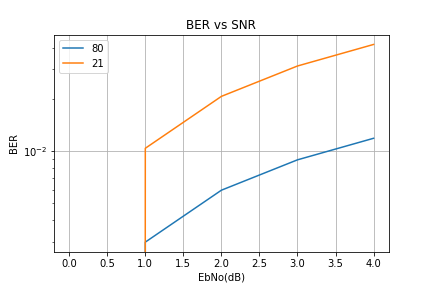
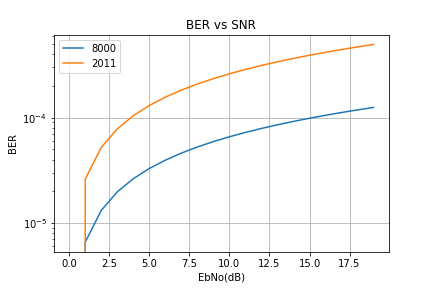
Made it more usable

Changed region(s): [[0.0, 0.125, 0.9028, 0.9375], [0.0602, 0.375, 0.0903, 0.4375]]

diff --git a/Python/JointCode.py b/Python/JointCode.py
@@ -14,10 +14,13 @@ from hamming import *
 
 # %%
 # huffman code
-
-string = 'AAAABBBCCC' # The code
-print ("Our code is ", string)
-print()
+sizeOfData = 1000
+arr = np.random.choice(['A','B', 'C', 'D'], sizeOfData) # The code
+string = ""
+for i in arr:
+    string += i
+print("Our code is ", string)
+print("")
 
 freq = {}
 # Calculating frequency
@@ -90,7 +93,6 @@ plt.show()
 
 # Enter the data to be transmitted
 data = compdata
-
 # Calculate the no of Redundant Bits Required
 m = len(data)
 r = calcRedundantBits(m)
@@ -109,6 +111,7 @@ print("Data transferred is ", arr)
 # %%
 
 def transmit(transArr, SNR):
+    numErrs = 0
     print(transArr.size)
     #Simulating data transmission over a channel
     mod = PSKModem(transArr.size)
@@ -137,13 +140,13 @@ def monteTransmit(EbNo, transArr):
         numErrs = 0
         #Simulating data transmission over a channel
         mod = PSKModem(transArr.size)
-        #simulate awgn
+        # Stimulate error in transmission by adding gaussian noise
         modArr = mod.modulate(transArr)
-        recieveArr =  awgn(modArr, SNR)
+        recieveArr = awgn(modArr, SNR)
         demodArr = mod.demodulate(recieveArr, 'hard')
-        #Calculating BER
+        #calculating the BER
         numErrs = np.sum(transArr != demodArr)
-        BERarr[i] = numErrs/transArr.size * 1.0
+        BERarr[i] = numErrs/demodArr.size
     plt.semilogy(EbNo, BERarr, label = transArr.size)
     print("The number of errors in our code is ", numErrs)
     print("Data Transmited is ", transArr)
@@ -154,7 +157,7 @@ def monteTransmit(EbNo, transArr):
 
 #%%
 
-SNR = 5
+SNR = 20
 plt.xlabel('EbNo(dB)')
 plt.ylabel('BER')
 plt.title('BER vs SNR')
@@ -167,7 +170,7 @@ plt.show()
 
 
 
-EbNo = np.arange(SNR+1)
+EbNo = np.arange(SNR)
 plt.xlabel('EbNo(dB)')
 plt.ylabel('BER')
 plt.title('BER vs SNR')
